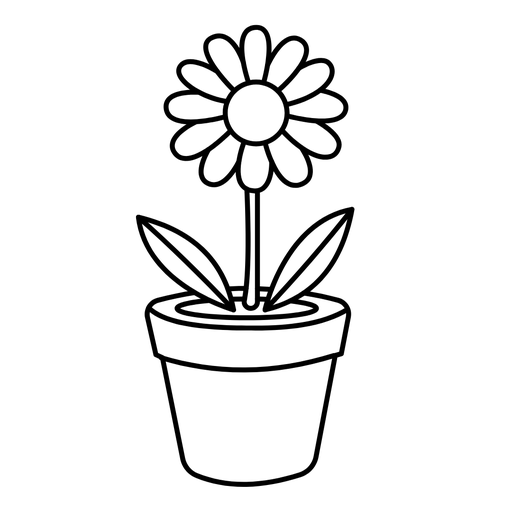
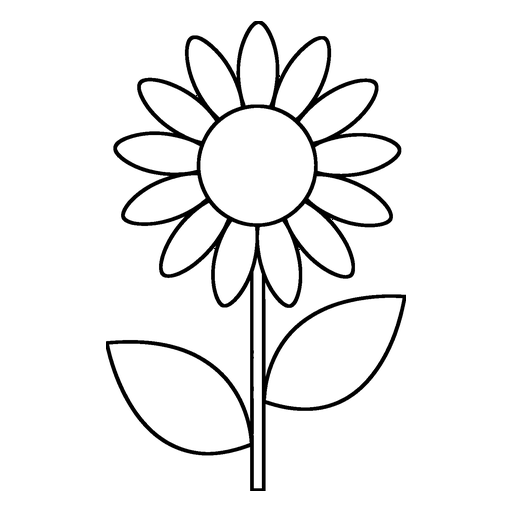
Kulay Saya: replace the potted flower page with a daisy
The new picture is cleaned to pure black lines on white so every part
(center, 14 petals, two leaves, stem) is its own closed fill region.
The page's autosave key gets a revision so a coloring saved on the old
picture is not painted over the new one.

Changed region(s): [[0.1875, 0.0312, 0.8125, 0.9688], [0.7188, 0.625, 0.7812, 0.75], [0.7188, 0.375, 0.7812, 0.4375]]

diff --git a/lib/screens/kulay_screen.dart b/lib/screens/kulay_screen.dart
@@ -682,8 +682,18 @@ class _KulayScreenState extends State<KulayScreen>
       studentId = userProvider.userProfile?.lrn ?? 'guest';
       if (studentId.isEmpty) studentId = 'guest';
     } catch (_) {}
-    return 'kulay_autosave_${studentId}_$pageName';
+    final revision = _pictureRevisions[pageName];
+    final page = revision == null ? pageName : '${pageName}_v$revision';
+    return 'kulay_autosave_${studentId}_$page';
   }
+
+  /// Pages whose picture has been replaced. A coloring saved on the old
+  /// picture would be painted over the new one, so a new revision gives the
+  /// page a fresh save of its own.
+  static const Map<String, int> _pictureRevisions = {
+    // paint4.png: the flower in a pot became a daisy (2026-10-13).
+    'Flower Basket': 2,
+  };
 
   Future<String> _autoSaveImagePath(String pageName) async {
     final dir = await getApplicationDocumentsDirectory();
